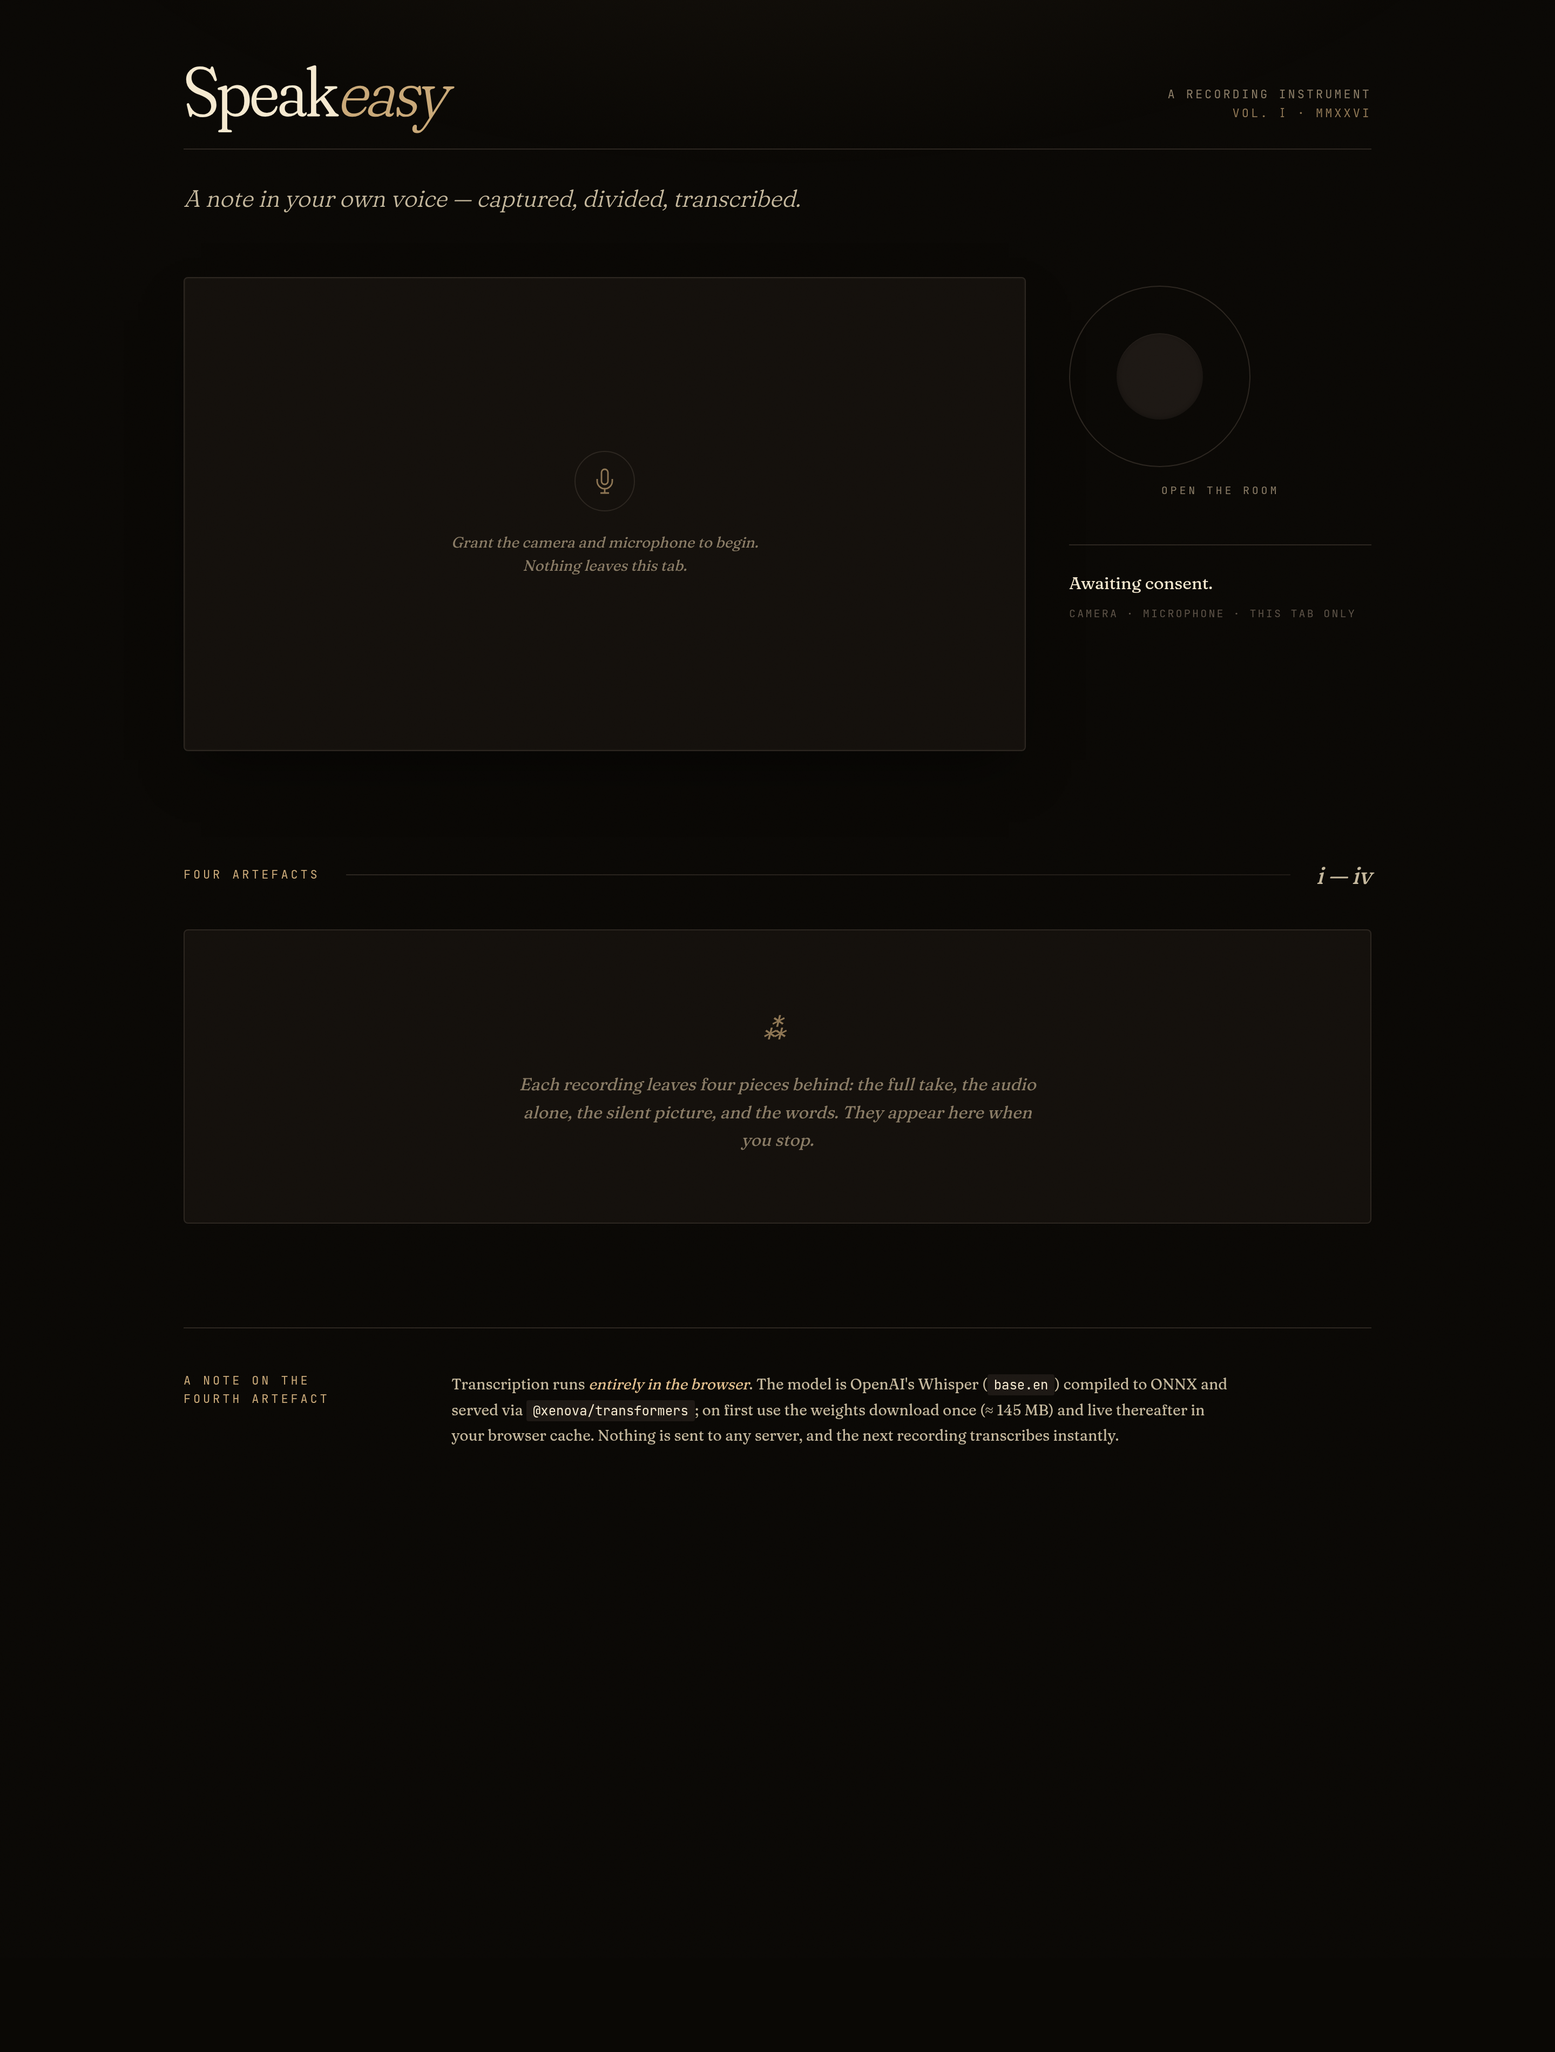
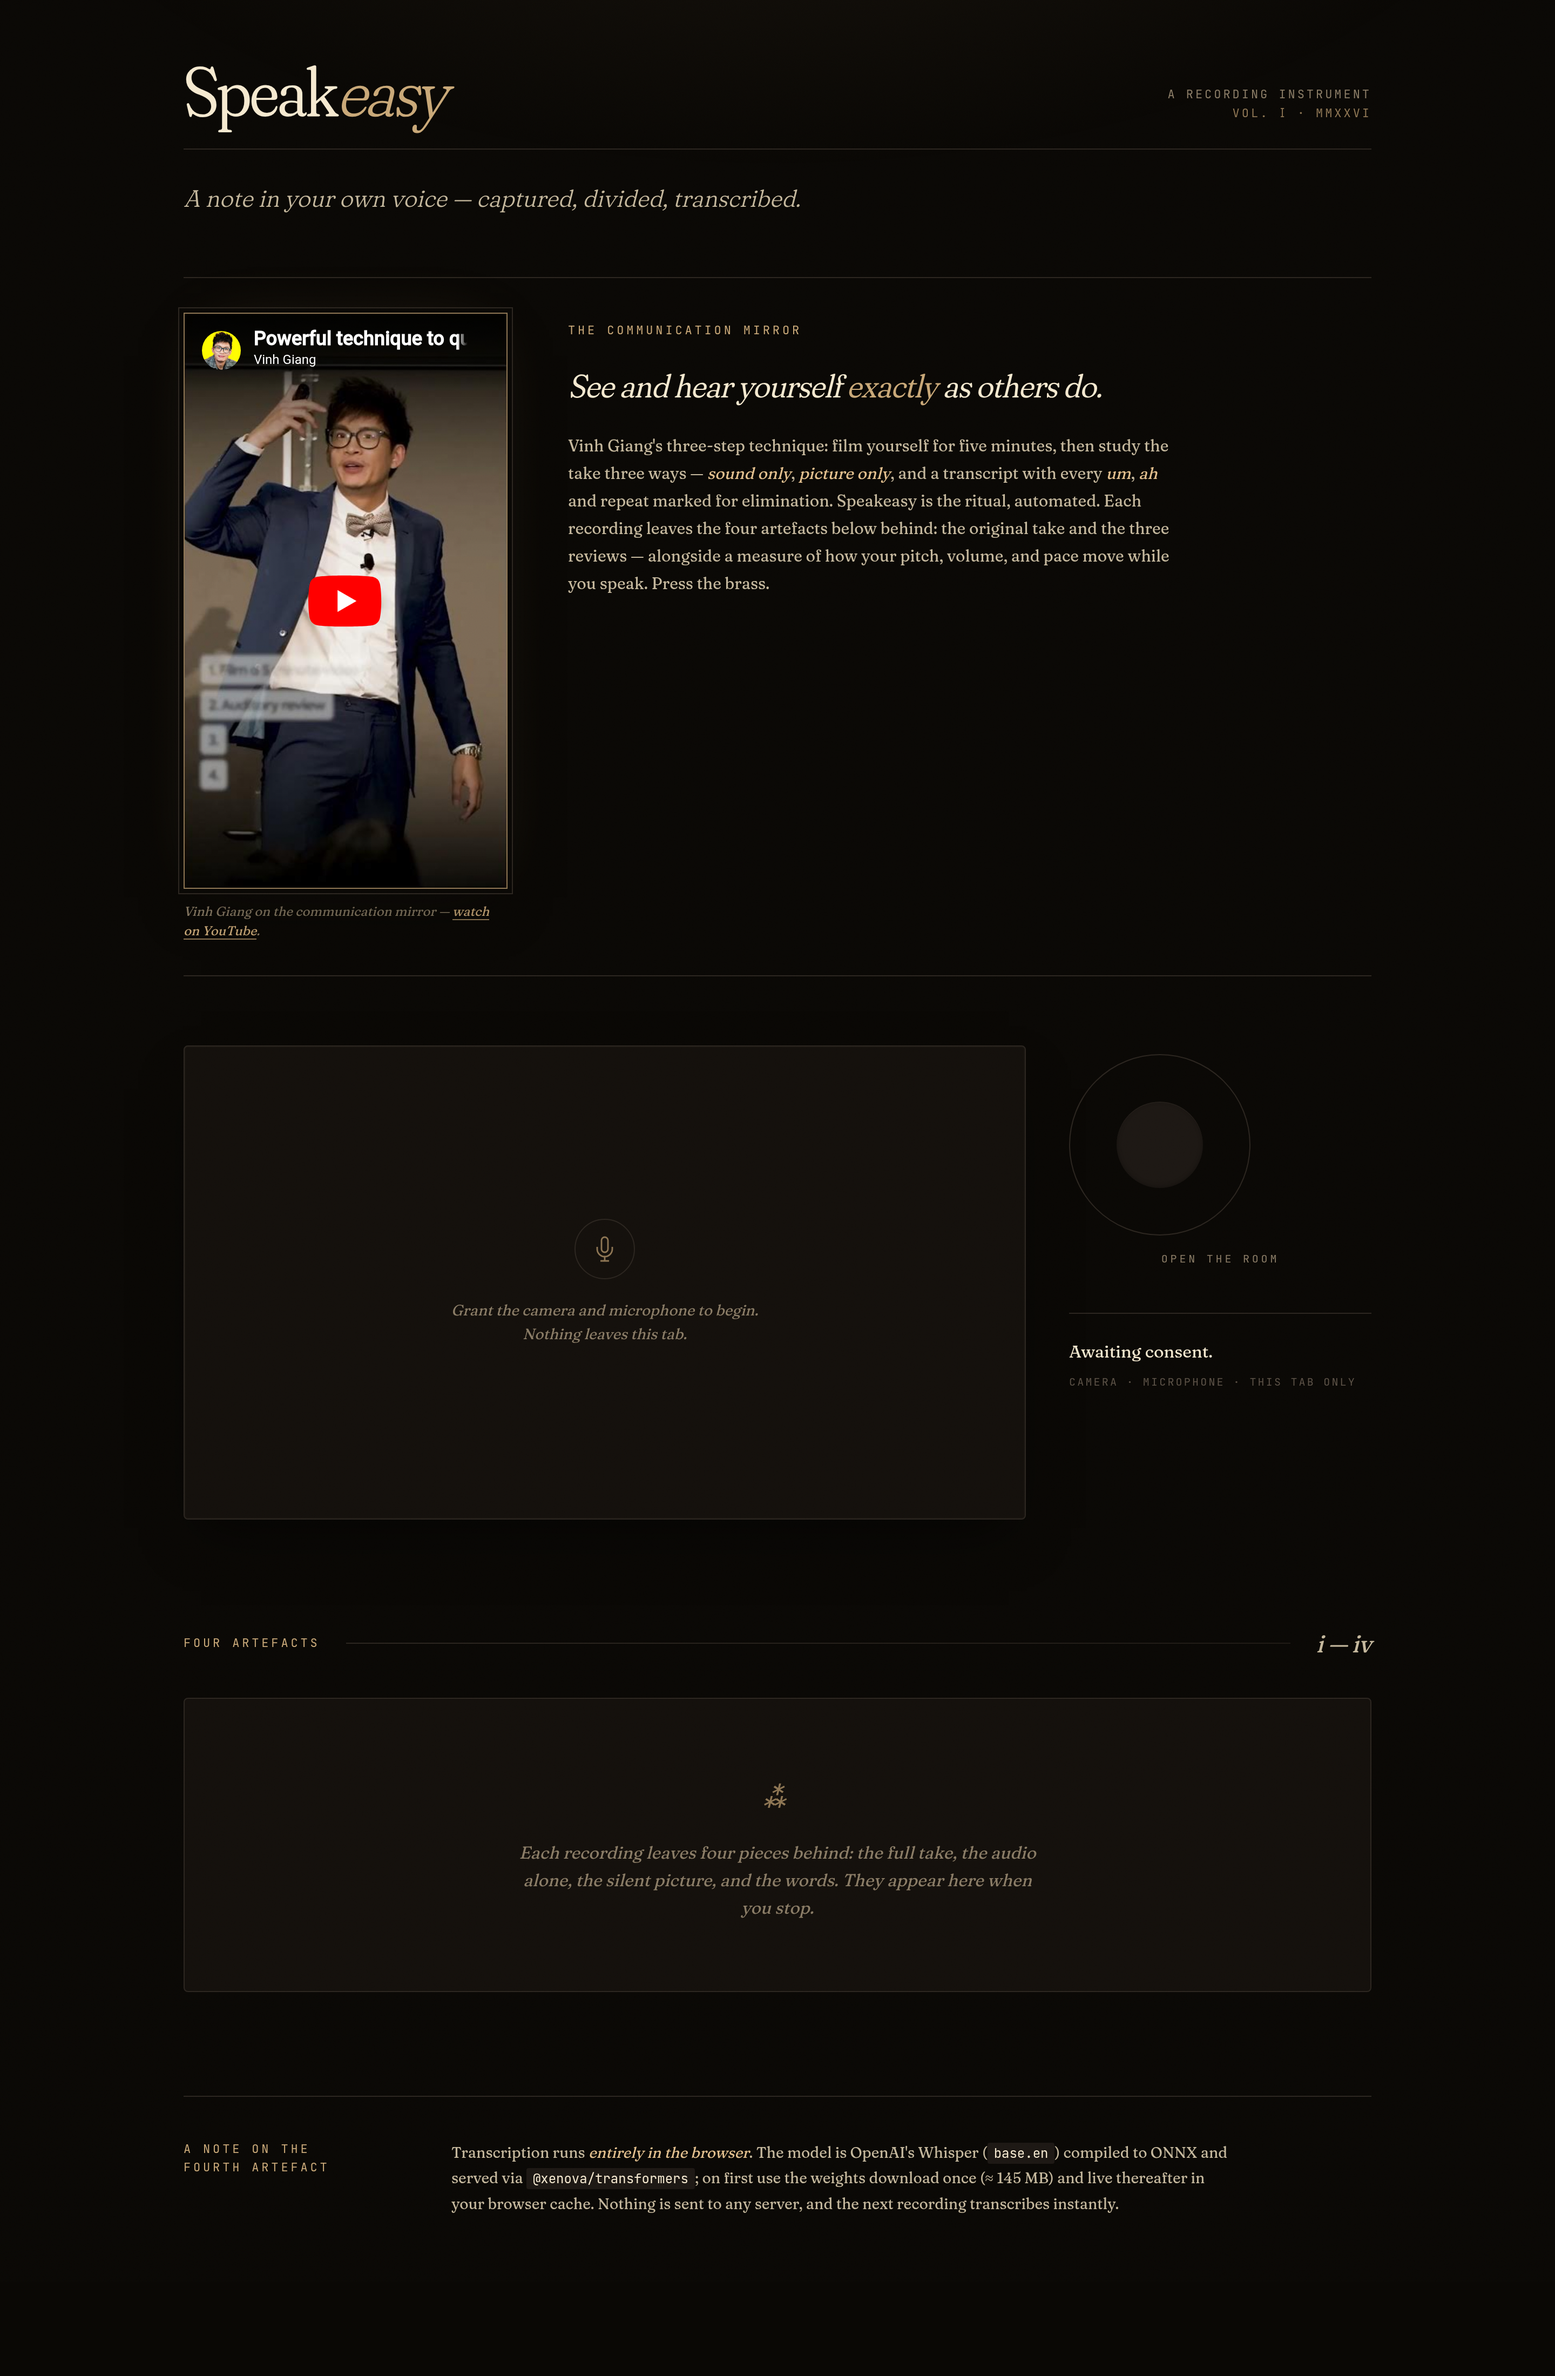
feat: inline demo + frame Speakeasy as the communication mirror
Embed Vinh Giang's YouTube Short above the recorder and rewrite the
motivation copy to call out what the tool actually is: an implementation
of his three-step communication-mirror technique. The four artefacts —
full take, audio alone, silent footage, transcript — are precisely the
original recording plus the three reviews the technique prescribes.

Treatment: editorial two-column section between the tagline and the
recorder. 9:16 frame for the Short (matches the native aspect), brass
border + warm glow shadow, italic figcaption with attribution.
youtube-nocookie host for the privacy variant; loop=1 paired with
playlist=<id> per the embed-API quirk.

README: credit the technique and link the Short. Screenshot refreshed
to capture the new layout.

diff --git a/index.html b/index.html
@@ -132,6 +132,103 @@
       animation: fade-in 700ms 120ms var(--ease) both;
     }
 
+    /* ─── motivation (inline demo) ─────────────────────────────────────── */
+    .motivation {
+      display: grid;
+      grid-template-columns: 300px 1fr;
+      gap: 56px;
+      align-items: start;
+      margin: 16px 0 64px;
+      padding: 32px 0;
+      border-top: 1px solid var(--rule);
+      border-bottom: 1px solid var(--rule);
+      animation: fade-in 700ms 180ms var(--ease) both;
+    }
+    @media (max-width: 880px) {
+      .motivation { grid-template-columns: 1fr; gap: 32px; }
+    }
+
+    .motivation-figure {
+      margin: 0;
+      display: flex; flex-direction: column; gap: 12px;
+    }
+    .motivation-frame {
+      position: relative;
+      aspect-ratio: 9 / 16;
+      width: 100%;
+      max-width: 300px;
+      background: var(--velvet);
+      border: 1px solid var(--brass-dim);
+      box-shadow:
+        0 0 0 4px var(--ink),
+        0 0 0 5px var(--rule),
+        0 24px 48px -16px rgba(0, 0, 0, 0.6),
+        0 0 60px -20px rgba(201, 168, 120, 0.18);
+      overflow: hidden;
+    }
+    .motivation-frame iframe {
+      width: 100%; height: 100%;
+      border: 0;
+      display: block;
+    }
+    .motivation-caption {
+      font-family: var(--display);
+      font-variation-settings: "opsz" 12, "SOFT" 80;
+      font-style: italic;
+      font-size: 12px;
+      line-height: 1.5;
+      color: var(--ash);
+      max-width: 300px;
+    }
+    .motivation-caption a {
+      color: var(--brass);
+      text-decoration: none;
+      border-bottom: 1px solid var(--brass-dim);
+      transition: border-color 200ms var(--ease);
+    }
+    .motivation-caption a:hover { border-color: var(--brass); }
+
+    .motivation-copy {
+      display: flex; flex-direction: column;
+      gap: 24px;
+      padding-top: 8px;
+    }
+    .motivation-eyebrow {
+      font-family: var(--mono);
+      font-size: 11px;
+      letter-spacing: 0.22em;
+      text-transform: uppercase;
+      color: var(--brass);
+      margin: 0;
+    }
+    .motivation-pull {
+      font-family: var(--display);
+      font-variation-settings: "opsz" 80, "SOFT" 90, "wght" 350;
+      font-style: italic;
+      font-size: clamp(22px, 2.6vw, 30px);
+      line-height: 1.25;
+      color: var(--paper);
+      margin: 0;
+      letter-spacing: -0.01em;
+      max-width: 580px;
+    }
+    .motivation-pull span {
+      color: var(--brass);
+    }
+    .motivation-body {
+      font-family: var(--display);
+      font-variation-settings: "opsz" 14, "SOFT" 80;
+      font-size: 15px;
+      line-height: 1.7;
+      color: var(--paper-soft);
+      margin: 0;
+      max-width: 560px;
+    }
+    .motivation-body em {
+      color: var(--brass-hot);
+      font-style: italic;
+    }
+
     /* ─── hero recorder ─────────────────────────────────────────────────── */
     .hero {
       display: grid;
@@ -826,6 +923,44 @@
   </header>
 
   <p class="tagline">A note in your own voice — captured, divided, transcribed.</p>
+
+  <section class="motivation" aria-labelledby="motivation-heading">
+    <figure class="motivation-figure">
+      <div class="motivation-frame">
+        <!--
+          YouTube Short embed via the privacy-preserving nocookie host.
+          loop=1 needs the same id repeated as `playlist` — quirk of the
+          YouTube embed API; without it, the loop param is ignored.
+        -->
+        <iframe
+          src="https://www.youtube-nocookie.com/embed/mXPIJosPsVU?loop=1&playlist=mXPIJosPsVU&playsinline=1&modestbranding=1&rel=0"
+          title="A demo of why one might want to record themselves"
+          loading="lazy"
+          allow="accelerometer; autoplay; clipboard-write; encrypted-media; gyroscope; picture-in-picture; web-share"
+          allowfullscreen
+        ></iframe>
+      </div>
+      <figcaption class="motivation-caption">
+        <em>Vinh Giang</em> on the communication mirror — <a href="https://youtube.com/shorts/mXPIJosPsVU" target="_blank" rel="noopener">watch on YouTube</a>.
+      </figcaption>
+    </figure>
+
+    <div class="motivation-copy">
+      <p class="motivation-eyebrow" id="motivation-heading">The communication mirror</p>
+      <p class="motivation-pull">
+        See and hear yourself <span>exactly</span> as others do.
+      </p>
+      <p class="motivation-body">
+        Vinh Giang's three-step technique: film yourself for five minutes, then
+        study the take three ways — <em>sound only</em>, <em>picture only</em>,
+        and a transcript with every <em>um</em>, <em>ah</em> and repeat marked
+        for elimination. Speakeasy is the ritual, automated. Each recording
+        leaves the four artefacts below behind: the original take and the three
+        reviews — alongside a measure of how your pitch, volume, and pace move
+        while you speak. Press the brass.
+      </p>
+    </div>
+  </section>
 
   <section class="hero">
     <div class="stage" id="stage">

diff --git a/README.md b/README.md
@@ -2,9 +2,11 @@
 
 A recording instrument. Capture a take, divide it into four artefacts (full / audio / silent footage / words), then read the audio's pitch, volume, and pace plotted over time.
 
+Built around Vinh Giang's [_communication mirror_ technique](https://youtube.com/shorts/mXPIJosPsVU) — film yourself, then review the take three separate ways (sound only, picture only, transcript with filler words highlighted) so you see and hear yourself exactly as others do. Speakeasy turns that ritual into a single click.
+
 Single-file web app. No bundler, no dependencies you have to install — just open it.
 
-![Speakeasy in its idle state — the masthead, recorder, and the four-artefact placeholder](docs/screenshot.png)
+![Speakeasy in its idle state — the masthead, the communication-mirror demo, recorder, and the four-artefact placeholder](docs/screenshot.png)
 
 ## Run it
 
